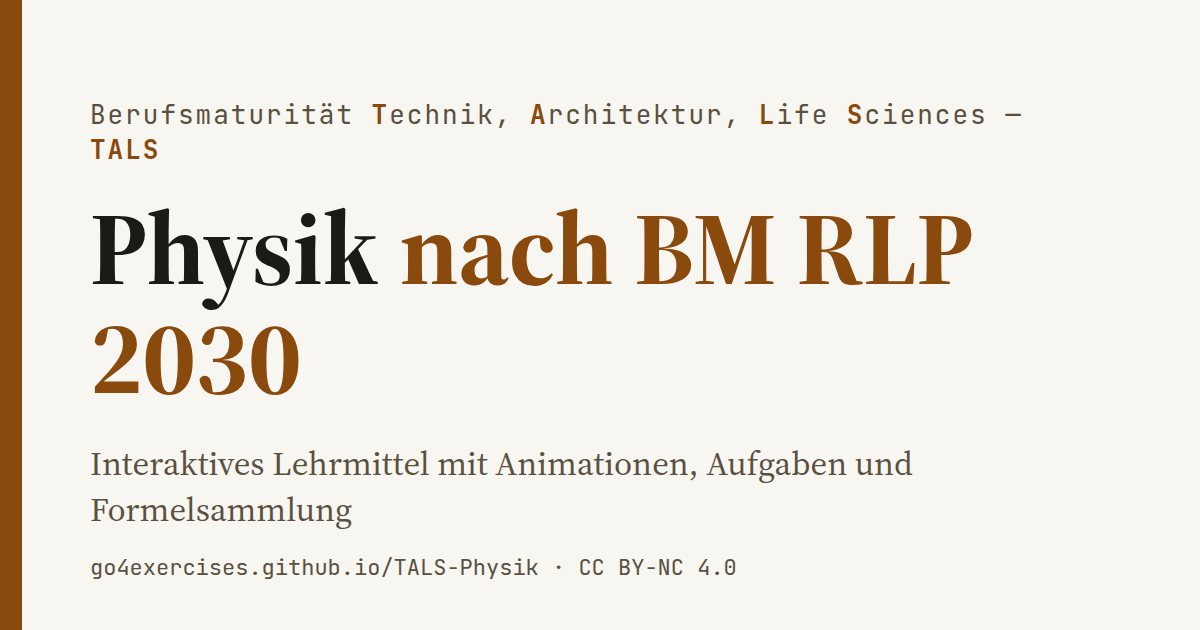
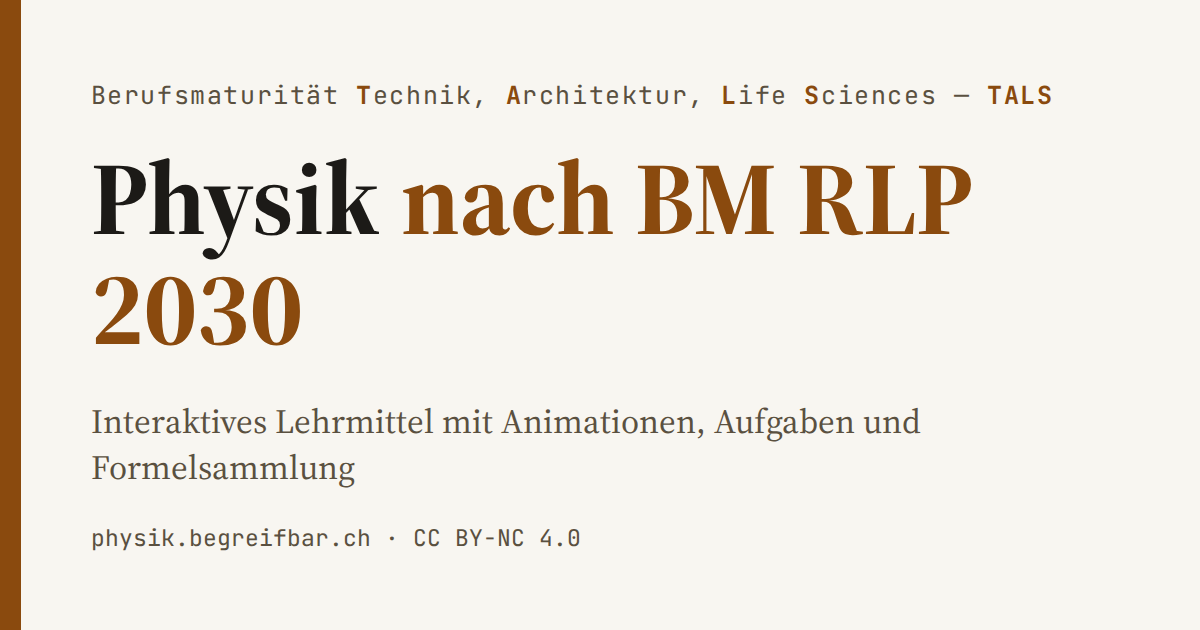
Bild-Assets reproduzierbar: .claude/tools/build-bilder.mjs
Die PNGs entstanden bisher von Hand — darum stand im og-bild.png nach dem
Domain-Umzug noch «go4exercises.github.io/TALS-Physik». Das Skript (aus TALS
Mathe uebernommen, Farben und Wortlaut auf Physik gesetzt) baut favicon-32.png,
apple-touch-icon.png und og-bild.png aus favicon.svg bzw. einer HTML-Vorlage.

Die beiden Icons werden byte-identisch reproduziert; og-bild.png ist neu gebaut
mit physik.begreifbar.ch. Schriftgroessen am alten Bild ausgemessen und
uebernommen (h1 104/1.06, ut 34/1.35, url 23) — nur die Kopfzeile steht neu
einzeilig: bei der alten Groesse mass sie 1033 von 1038 verfuegbaren Pixeln und
brach «TALS» darum um.

Claude-Session: https://claude.ai/code/session_01TqVbWMmatSsb4q3Urzo9N1

Changed region(s): [[0.0617, 0.1206, 0.8942, 0.6937], [0.0617, 0.7238, 0.7708, 0.9349]]

diff --git a/CLAUDE.md b/CLAUDE.md
@@ -58,6 +58,11 @@ ist die Kurzfassung + der verbindliche Pre-Flight. Bei Widerspruch gilt STYLEGUI
   wird im Quelltext nur der Anker, nie die Nummer (Details: STYLEGUIDE §5.9).
   `--check` prüft ohne zu schreiben, `--root PFAD` zielt aufs Schwesterprojekt.
   Der Pre-Flight ruft `--check` auf und meldet Abweichungen als **[FEHLER]**.
+- `.claude/tools/build-bilder.mjs` — baut `favicon-32.png`, `apple-touch-icon.png`
+  (aus `favicon.svg`) und `og-bild.png` (aus einer HTML-Vorlage im Skript) mit
+  Playwright neu. Nur bei Bedarf laufen lassen: die PNGs sind versioniert und
+  ändern sich nur, wenn Farbe, Wortlaut, Adresse oder Schrift der Vorlage
+  angepasst werden. Wortlaut und Adresse gehören in die Vorlage, nicht ins Bild.
 - `.quellen/formelsammlung/` — LaTeX-Quelle der illustrierten Formelsammlung samt
   Bauanleitung (`README-Build.md`). Punkt-Ordner, damit GitHub Pages ihn nicht
   ausliefert. Das fertige PDF steht als `TALS-Physik-Formelsammlung.pdf` im Root;
